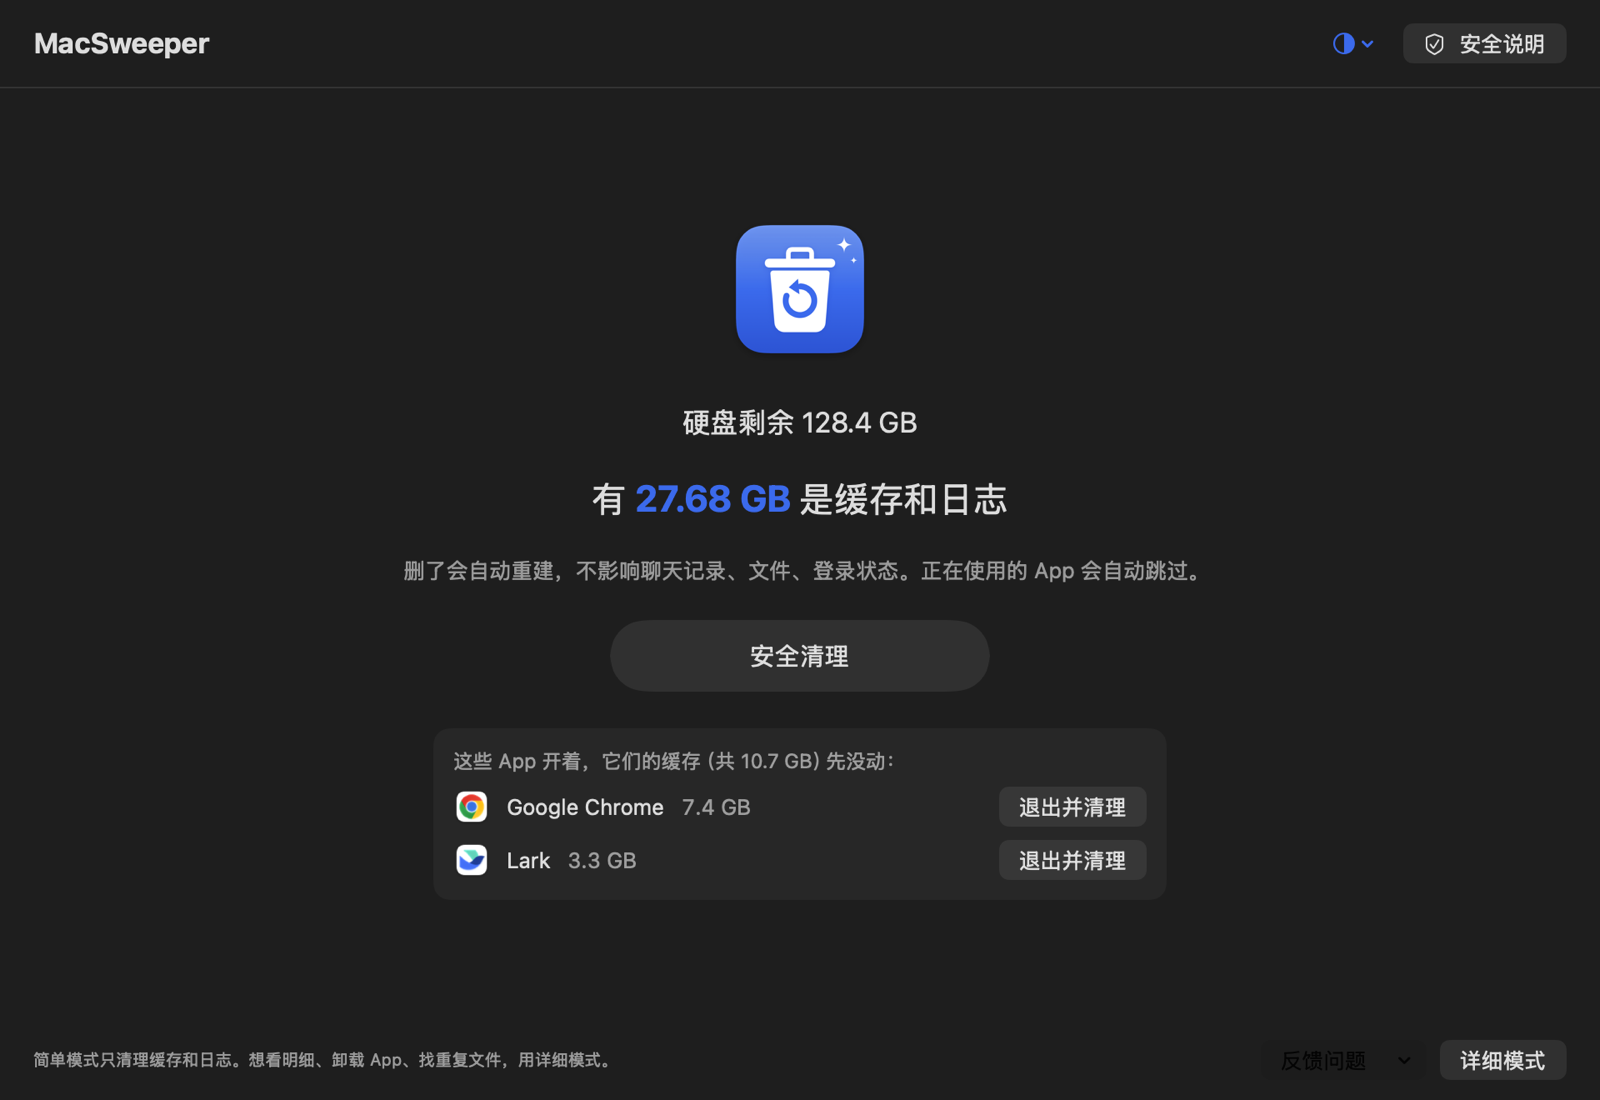
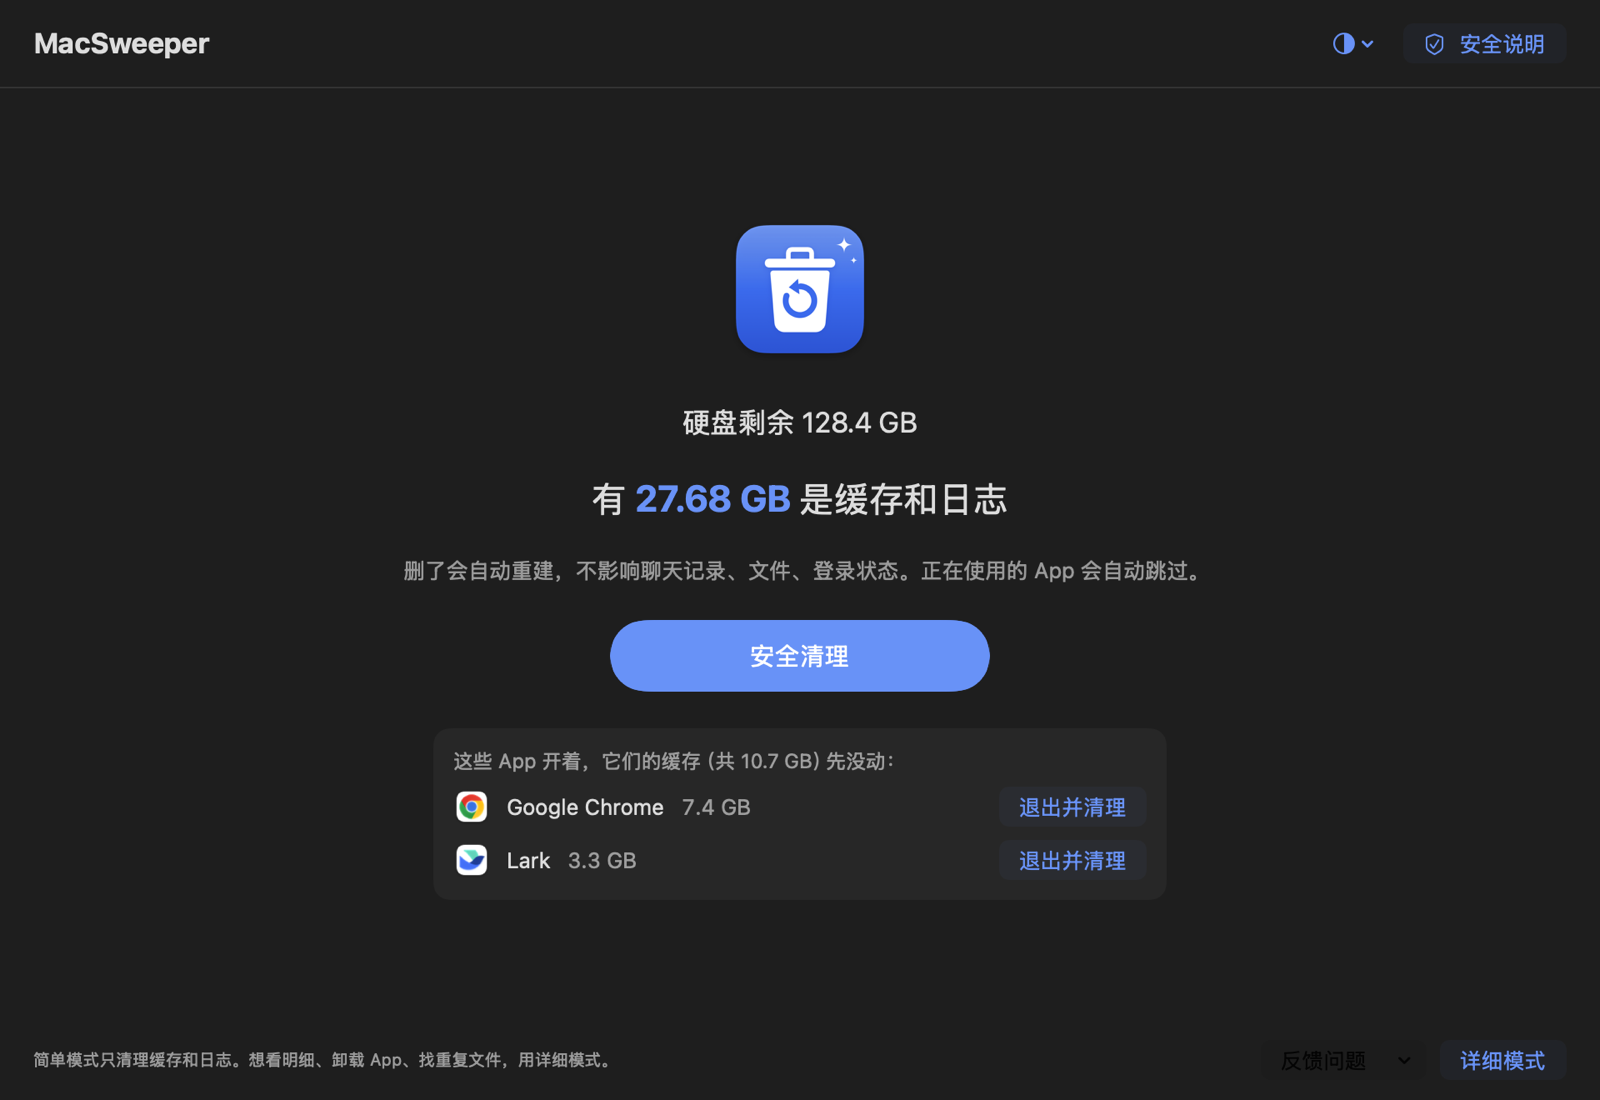
MacSweeper 1.0.3：“删了会怎样”三个标签也只用蓝色
- 会自动重建 = 浅蓝底，要重新下载 = 蓝色描边，找不回来 = 实心蓝底白字，各配一个小图标，靠深浅分轻重
- 品牌蓝在深色模式下自动变亮一点（Brand.blue），实心底用固定的蓝（Brand.solid）保证白字清楚
- 宣传截图重新生成（演示数据）

diff --git a/Sources/MacSweeper/Components.swift b/Sources/MacSweeper/Components.swift
@@ -84,16 +84,27 @@ struct CollapsibleHeader<Content: View>: View {
 struct ConsequenceBadge: View {
     let consequence: Consequence
 
+    /// 只用品牌蓝，靠深浅和图标分轻重：
+    /// 会自动重建 = 浅蓝底；要重新下载 = 蓝色描边；找不回来 = 实心蓝底白字，最醒目
     var body: some View {
-        let (text, color): (String, Color) = switch consequence {
-        case .rebuilt: ("会自动重建", .green)
-        case .redownload: ("要重新下载", .orange)
-        case .lost: ("找不回来", .red)
+        let shape = RoundedRectangle(cornerRadius: 4)
+        HStack(spacing: 3) {
+            Image(systemName: Self.icon(consequence))
+            Text(Self.shortText(consequence))
         }
-        Text(L(text))
-            .font(.caption2.weight(.medium)).foregroundStyle(color)
-            .padding(.horizontal, 5).padding(.vertical, 1)
-            .background(color.opacity(0.12), in: RoundedRectangle(cornerRadius: 4))
+        .font(.caption2.weight(consequence == .lost ? .bold : .medium))
+        .foregroundStyle(consequence == .lost ? Color.white : Brand.blue)
+        .padding(.horizontal, 5).padding(.vertical, 1)
+        .background(consequence == .lost ? Brand.solid : consequence == .rebuilt ? Brand.blue.opacity(0.12) : .clear, in: shape)
+        .overlay(shape.strokeBorder(Brand.blue.opacity(consequence == .redownload ? 0.7 : 0), lineWidth: 1))
+    }
+
+    static func icon(_ c: Consequence) -> String {
+        switch c {
+        case .rebuilt: return "arrow.triangle.2.circlepath"
+        case .redownload: return "arrow.down.circle"
+        case .lost: return "exclamationmark.triangle.fill"
+        }
     }
 
     static func shortText(_ c: Consequence) -> String {
@@ -291,7 +302,14 @@ struct FeedbackMenu: View {
 }
 
 /// 品牌色：只用蓝和白两种。和图标、海报、分享页是同一个蓝。
-/// 表示安全等级的绿（可放心清理）、橙（需确认）、红（找不回来）是提示，不算品牌色，保持不变
+/// “删了会怎样”三个标签也只用这个蓝，靠深浅区分轻重（见 ConsequenceBadge）
 enum Brand {
-    static let blue = Color(red: 0.16, green: 0.42, blue: 0.96)
+    /// 文字、按钮、勾选框用的蓝：深色模式下亮一点，看得清
+    static let blue = Color(nsColor: NSColor(name: nil) { look in
+        look.bestMatch(from: [.darkAqua, .aqua]) == .darkAqua
+            ? NSColor(srgbRed: 0.36, green: 0.58, blue: 1.0, alpha: 1)
+            : NSColor(srgbRed: 0.16, green: 0.42, blue: 0.96, alpha: 1)
+    })
+    /// 实心蓝底（上面放白字）用的蓝，深浅模式都一样，保证白字清楚
+    static let solid = Color(red: 0.16, green: 0.42, blue: 0.96)
 }
